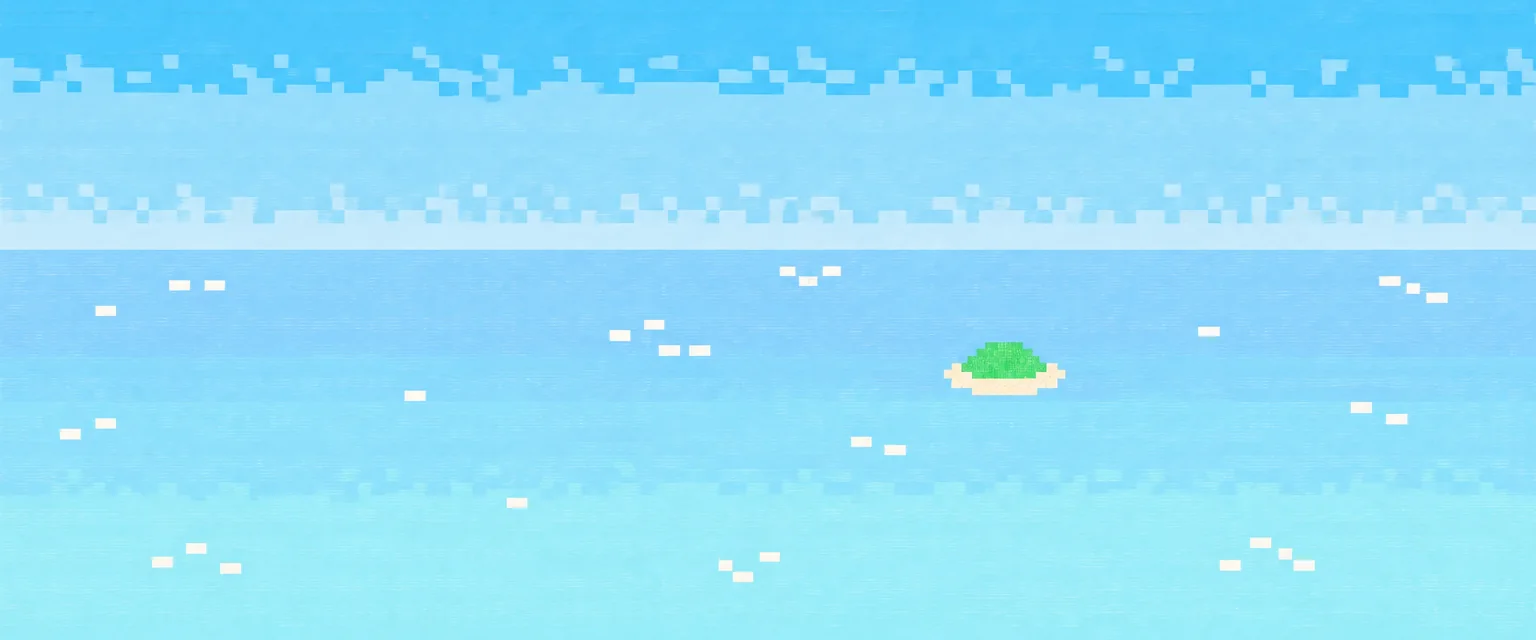
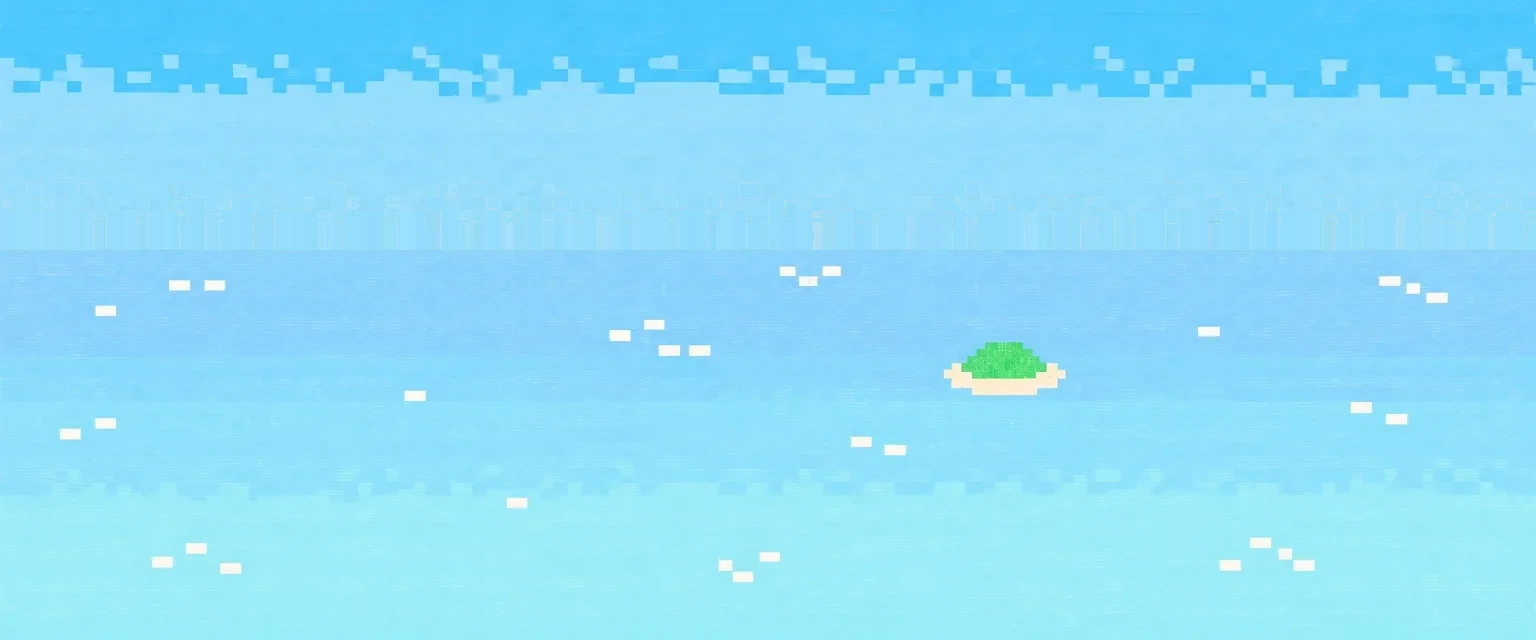
fix(site): 404 strip without the pale horizon band
Claude-Session: https://claude.ai/code/session_01U69uFLMgJgS6MvZ1Fa28ZA

Changed region(s): [[0.0, 0.2812, 1.0, 0.4062]]

diff --git a/public/landing/404.html b/public/landing/404.html
@@ -39,7 +39,7 @@
   <p class="lost-links"><a href="/download">download</a><a href="/pricing">pricing</a><a href="/changelog">what's new</a><a href="/contact">contact</a></p>
 </section>
 
-<div class="strip ph-lost"><div class="ph-art"><img src="/art/strip-lost.webp?v=24d5bdd3" alt="" width="1536" height="640" fetchpriority="high"><span class="pb b1"><svg class="bot c-tangerine" viewBox="0 0 100 100" shape-rendering="crispEdges" aria-hidden="true" data-px="boxo"><g class="px" transform="translate(10 10) scale(5)"><path class="px-b" fill="currentColor" d="M7 0h2v4h-2zM3 4h10v1h-10zM2 5h12v3h-12zM2 8h2v3h-2zM6 8h4v3h-4zM12 8h2v3h-2zM2 11h12v5h-12z"/><path class="px-e" fill="#fff" d="M4 8h2v3h-2zM10 8h2v3h-2z"/></g></svg></span></div><i class="cl c1"></i><i class="cl c2"></i></div>
+<div class="strip ph-lost"><div class="ph-art"><img src="/art/strip-lost.webp?v=9e8c274e" alt="" width="1536" height="640" fetchpriority="high"><span class="pb b1"><svg class="bot c-tangerine" viewBox="0 0 100 100" shape-rendering="crispEdges" aria-hidden="true" data-px="boxo"><g class="px" transform="translate(10 10) scale(5)"><path class="px-b" fill="currentColor" d="M7 0h2v4h-2zM3 4h10v1h-10zM2 5h12v3h-12zM2 8h2v3h-2zM6 8h4v3h-4zM12 8h2v3h-2zM2 11h12v5h-12z"/><path class="px-e" fill="#fff" d="M4 8h2v3h-2zM10 8h2v3h-2z"/></g></svg></span></div><i class="cl c1"></i><i class="cl c2"></i></div>
 
 </main>
 <footer class="foot">
